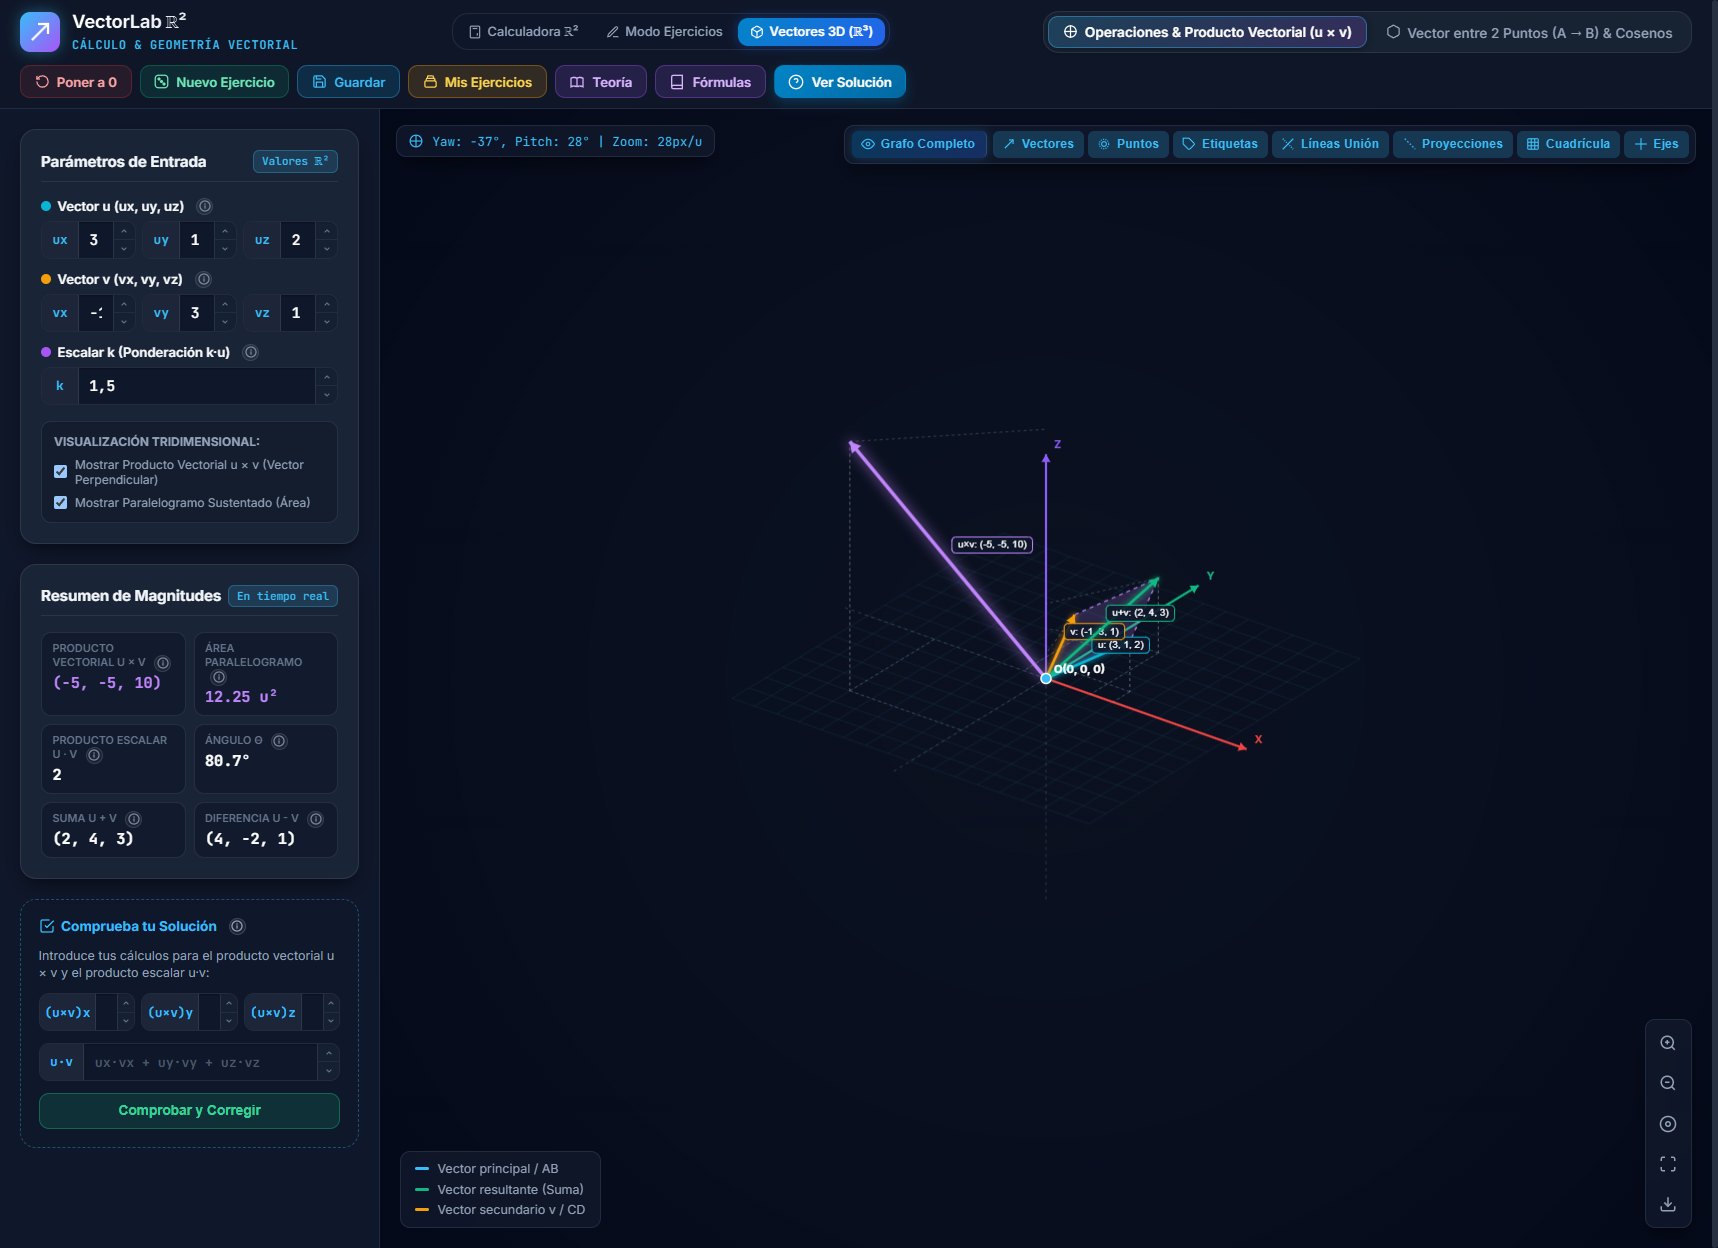
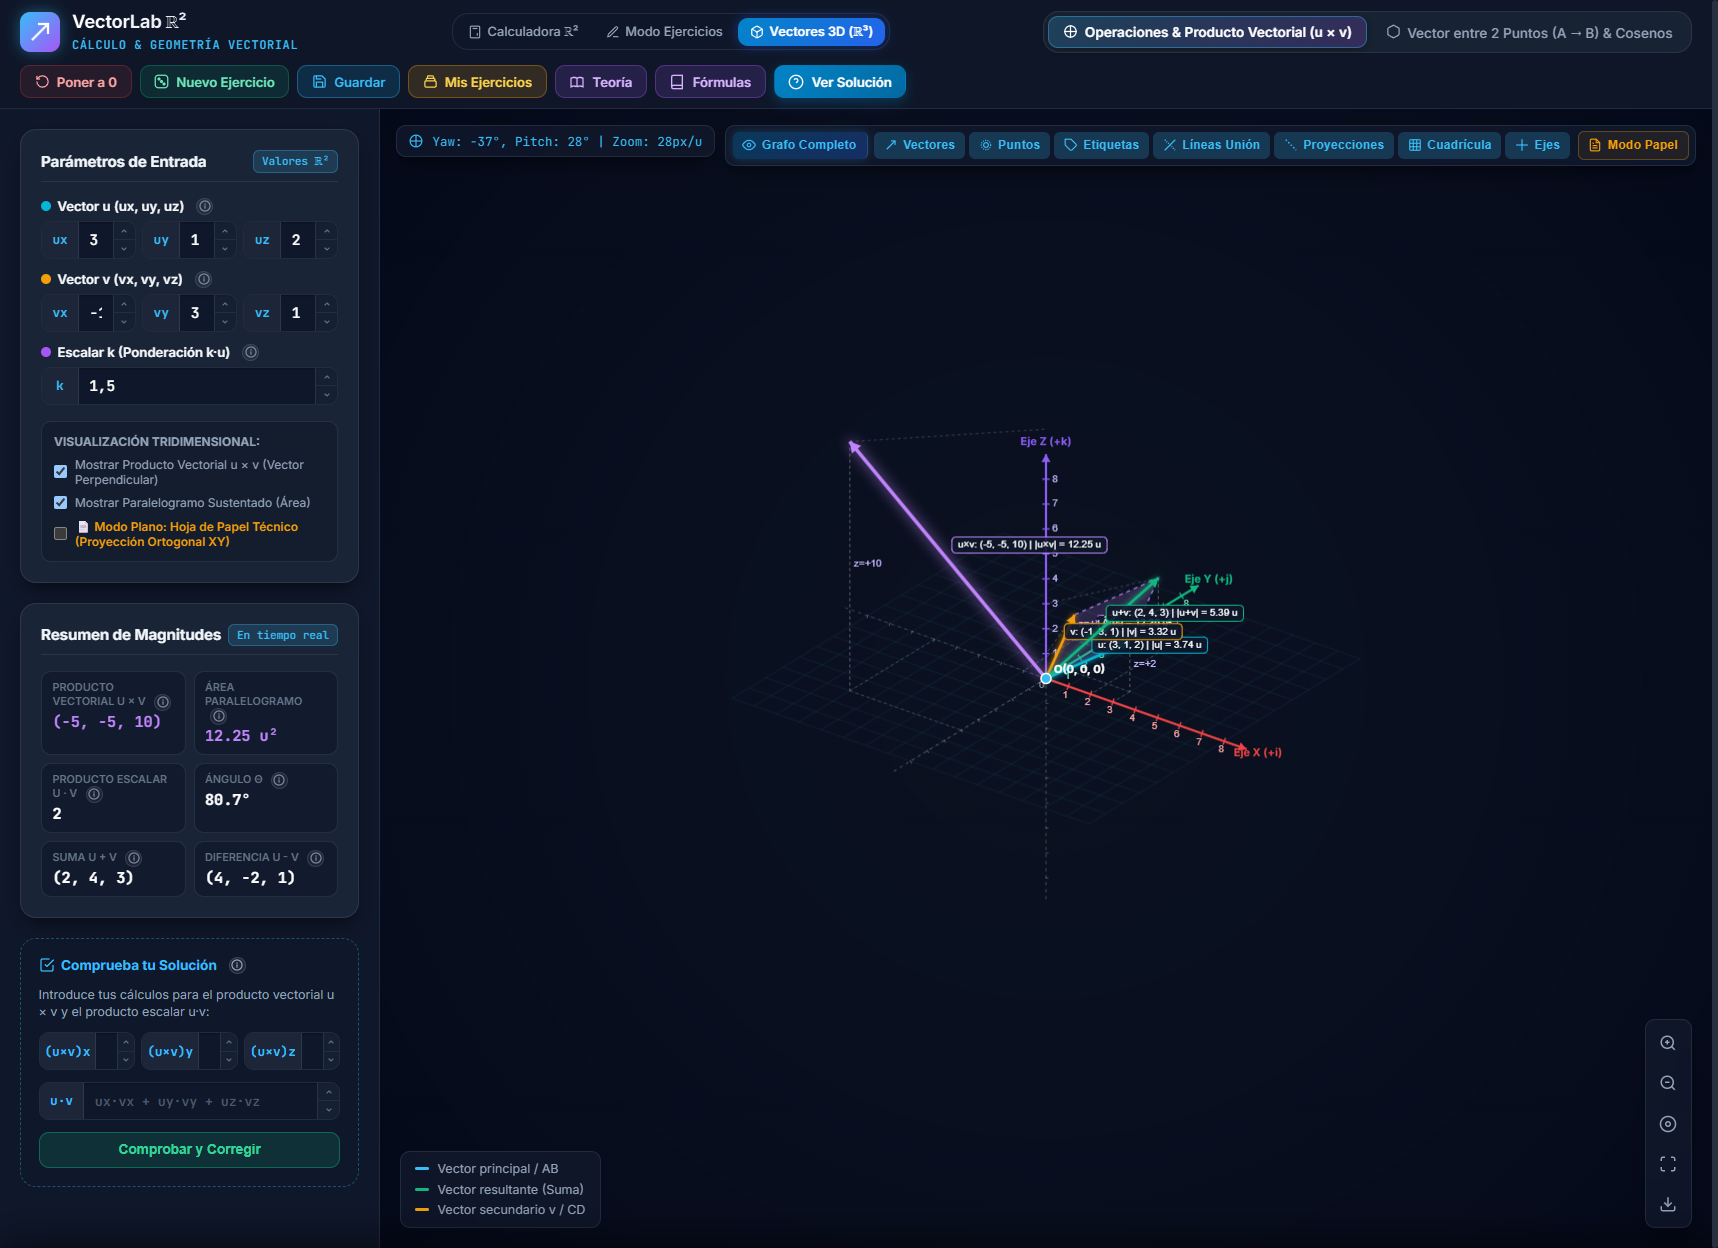
feat(canvas-3d): incorporar graduacion metrica en ejes X Y Z, cotas de altura y calculo de modulos

diff --git a/js/shared/canvas/MotorGrafico3D.js b/js/shared/canvas/MotorGrafico3D.js
@@ -496,6 +496,55 @@ export class MotorGrafico3D {
     ctx.stroke();
     ctx.setLineDash([]);
 
+    // Graduación métrica y marcas numéricas de escala
+    const pasoPapel = this._escala >= 26 ? 1 : (this._escala >= 14 ? 2 : 5);
+    ctx.font = '9px var(--fuente-mono, monospace)';
+
+    // Marcas numéricas en Eje X
+    const limIzqX = Math.floor((x0 - cx) / this._escala);
+    const limDerX = Math.ceil((x0 + anchoFolio - cx) / this._escala);
+    for (let k = limIzqX; k <= limDerX; k++) {
+      if (k === 0 || k % pasoPapel !== 0) continue;
+      const px = cx + k * this._escala;
+      if (px < x0 + 18 || px > x0 + anchoFolio - 35) continue;
+
+      ctx.lineWidth = 1;
+      ctx.strokeStyle = k > 0 ? '#ef4444' : 'rgba(239, 68, 68, 0.45)';
+      ctx.beginPath();
+      ctx.moveTo(px, cy - 3.5);
+      ctx.lineTo(px, cy + 3.5);
+      ctx.stroke();
+
+      ctx.textAlign = 'center';
+      ctx.fillStyle = k > 0 ? '#fca5a5' : 'rgba(248, 113, 113, 0.6)';
+      ctx.fillText(k.toString(), px, cy + 12);
+    }
+
+    // Marcas numéricas en Eje Y
+    const limInfY = Math.floor((cy - (y0 + altoFolio)) / this._escala);
+    const limSupY = Math.ceil((cy - y0) / this._escala);
+    for (let k = limInfY; k <= limSupY; k++) {
+      if (k === 0 || k % pasoPapel !== 0) continue;
+      const py = cy - k * this._escala;
+      if (py < y0 + 35 || py > y0 + altoFolio - 18) continue;
+
+      ctx.lineWidth = 1;
+      ctx.strokeStyle = k > 0 ? '#10b981' : 'rgba(16, 185, 129, 0.45)';
+      ctx.beginPath();
+      ctx.moveTo(cx - 3.5, py);
+      ctx.lineTo(cx + 3.5, py);
+      ctx.stroke();
+
+      ctx.textAlign = 'right';
+      ctx.fillStyle = k > 0 ? '#6ee7b7' : 'rgba(52, 211, 153, 0.6)';
+      ctx.fillText(k.toString(), cx - 6, py + 3);
+    }
+
+    // Origen 0
+    ctx.textAlign = 'right';
+    ctx.fillStyle = 'rgba(148, 163, 184, 0.7)';
+    ctx.fillText('0', cx - 6, cy + 12);
+
     // Etiquetas de los ejes
     if (this._capas.etiquetas) {
       ctx.font = 'bold 11px Inter, sans-serif';
@@ -570,9 +619,11 @@ export class MotorGrafico3D {
         }
 
         if (this._capas.etiquetas) {
+          const mod = Math.hypot(v.x, v.y, v.z);
+          const modStr = Number.isInteger(mod) ? mod.toString() : mod.toFixed(2);
           const sentido = v.z >= 0 ? '⊙ Hacia afuera' : '⊗ Hacia adentro';
           this._dibujarInsigniaEtiqueta(
-            `${v.etiqueta}: z=${v.z} (${sentido})`,
+            `${v.etiqueta}: z=${v.z} (${sentido}) | |${v.etiqueta}| = ${modStr} u`,
             orig.px + 18, orig.py - 14, v.color
           );
         }
@@ -589,9 +640,11 @@ export class MotorGrafico3D {
         if (this._capas.etiquetas) {
           const midX = (orig.px + ext.px) / 2;
           const midY = (orig.py + ext.py) / 2;
+          const mod = Math.hypot(v.x, v.y, v.z);
+          const modStr = Number.isInteger(mod) ? mod.toString() : mod.toFixed(2);
           const infoCota = v.z !== 0 ? ` (z=${v.z > 0 ? '+' : ''}${v.z})` : '';
           this._dibujarInsigniaEtiqueta(
-            `${v.etiqueta}: (${v.x}, ${v.y})${infoCota}`,
+            `${v.etiqueta}: (${v.x}, ${v.y})${infoCota} | |${v.etiqueta}| = ${modStr} u`,
             midX + 10, midY - 10, v.color
           );
         }
@@ -645,29 +698,48 @@ export class MotorGrafico3D {
     const o = this.proyectar(0, 0, 0);
 
     const ejes = [
-      { id: 'X', fin: this.proyectar(lEje, 0, 0), color: '#ef4444', unitario: this.proyectar(1, 0, 0), etiqueta: 'Eje X (+i)' },
-      { id: 'Y', fin: this.proyectar(0, lEje, 0), color: '#10b981', unitario: this.proyectar(0, 1, 0), etiqueta: 'Eje Y (+j)' },
-      { id: 'Z', fin: this.proyectar(0, 0, lEje), color: '#8b5cf6', unitario: this.proyectar(0, 0, 1), etiqueta: 'Eje Z (+k)' }
+      { id: 'X', fin: this.proyectar(lEje, 0, 0), color: '#ef4444', colorTexto: '#fca5a5', dir: { x: 1, y: 0, z: 0 }, etiqueta: 'Eje X (+i)' },
+      { id: 'Y', fin: this.proyectar(0, lEje, 0), color: '#10b981', colorTexto: '#6ee7b7', dir: { x: 0, y: 1, z: 0 }, etiqueta: 'Eje Y (+j)' },
+      { id: 'Z', fin: this.proyectar(0, 0, lEje), color: '#8b5cf6', colorTexto: '#c4b5fd', dir: { x: 0, y: 0, z: 1 }, etiqueta: 'Eje Z (+k)' }
     ];
 
-    // Ejes negativos discontinuos
+    const paso = this._escala >= 26 ? 1 : (this._escala >= 14 ? 2 : 5);
+
+    // Ejes negativos discontinuos con marcas métricas sutiles
     ctx.save();
     ctx.lineWidth = 1;
     ctx.setLineDash([3, 4]);
-    ctx.strokeStyle = 'rgba(255, 255, 255, 0.15)';
+    ctx.strokeStyle = 'rgba(255, 255, 255, 0.18)';
     [
-      this.proyectar(-lEje, 0, 0),
-      this.proyectar(0, -lEje, 0),
-      this.proyectar(0, 0, -lEje)
-    ].forEach(pNeg => {
+      { id: '-X', dir: { x: -1, y: 0, z: 0 } },
+      { id: '-Y', dir: { x: 0, y: -1, z: 0 } },
+      { id: '-Z', dir: { x: 0, y: 0, z: -1 } }
+    ].forEach(ejeNeg => {
+      const pNeg = this.proyectar(ejeNeg.dir.x * lEje, ejeNeg.dir.y * lEje, ejeNeg.dir.z * lEje);
       ctx.beginPath();
       ctx.moveTo(o.px, o.py);
       ctx.lineTo(pNeg.px, pNeg.py);
       ctx.stroke();
+
+      const dx = pNeg.px - o.px;
+      const dy = pNeg.py - o.py;
+      const len = Math.hypot(dx, dy);
+      if (len > 0.001) {
+        const nx = -dy / len;
+        const ny = dx / len;
+        ctx.strokeStyle = 'rgba(255, 255, 255, 0.25)';
+        for (let k = paso; k <= lEje - 1; k += paso) {
+          const pk = this.proyectar(ejeNeg.dir.x * k, ejeNeg.dir.y * k, ejeNeg.dir.z * k);
+          ctx.beginPath();
+          ctx.moveTo(pk.px - 2.5 * nx, pk.py - 2.5 * ny);
+          ctx.lineTo(pk.px + 2.5 * nx, pk.py + 2.5 * ny);
+          ctx.stroke();
+        }
+      }
     });
     ctx.restore();
 
-    // Ejes positivos sólidos
+    // Ejes positivos sólidos con graduación métrica y etiquetas numéricas
     ejes.forEach(eje => {
       ctx.save();
       ctx.lineWidth = 2.2;
@@ -683,13 +755,57 @@ export class MotorGrafico3D {
       // Flecha terminal del eje
       this._dibujarPuntaFlecha2D(o.px, o.py, eje.fin.px, eje.fin.py, eje.color, 9);
 
-      // Etiqueta del eje
+      // Vector normal unitario en pantalla para trazar ticks ortogonales
+      const dx = eje.fin.px - o.px;
+      const dy = eje.fin.py - o.py;
+      const len = Math.hypot(dx, dy);
+      const nx = len > 0.001 ? -dy / len : 0;
+      const ny = len > 0.001 ? dx / len : 0;
+
+      // Graduación métrica (Ticks numéricos de unidad)
+      ctx.font = '9px var(--fuente-mono, monospace)';
+      ctx.textAlign = 'center';
+      ctx.textBaseline = 'middle';
+
+      for (let k = paso; k <= lEje - 1; k += paso) {
+        const pk = this.proyectar(eje.dir.x * k, eje.dir.y * k, eje.dir.z * k);
+
+        // Tick perpendicular a la proyección del eje
+        ctx.lineWidth = 1.3;
+        ctx.strokeStyle = eje.color;
+        ctx.beginPath();
+        ctx.moveTo(pk.px - 3.5 * nx, pk.py - 3.5 * ny);
+        ctx.lineTo(pk.px + 3.5 * nx, pk.py + 3.5 * ny);
+        ctx.stroke();
+
+        // Número de la medida
+        if (this._capas.etiquetas) {
+          ctx.fillStyle = eje.colorTexto;
+          const posTextoX = pk.px + 9 * nx;
+          const posTextoY = pk.py + 9 * ny;
+          ctx.fillText(k.toString(), posTextoX, posTextoY);
+        }
+      }
+
+      // Etiqueta formal del eje (+X, +Y, +Z)
       if (this._capas.etiquetas) {
         ctx.font = 'bold 11px Inter, sans-serif';
-        ctx.fillText(eje.id, eje.fin.px + 8, eje.fin.py - 6);
+        ctx.fillStyle = eje.color;
+        const normDx = len > 0.001 ? dx / len : 1;
+        const normDy = len > 0.001 ? dy / len : 0;
+        ctx.fillText(eje.etiqueta, eje.fin.px + 12 * normDx, eje.fin.py + 12 * normDy);
       }
       ctx.restore();
     });
+
+    // Origen 0 en pantalla
+    if (this._capas.etiquetas) {
+      ctx.save();
+      ctx.font = '9px var(--fuente-mono, monospace)';
+      ctx.fillStyle = 'rgba(255, 255, 255, 0.45)';
+      ctx.fillText('0', o.px - 7, o.py + 9);
+      ctx.restore();
+    }
   }
 
   _dibujarParalelogramo3D(pts) {
@@ -711,6 +827,29 @@ export class MotorGrafico3D {
     ctx.lineWidth = 1.5;
     ctx.strokeStyle = 'rgba(192, 132, 252, 0.75)';
     ctx.stroke();
+
+    // Medida del área superficial en el centroide del paralelogramo
+    if (this._capas.etiquetas && pts.length >= 4) {
+      const p0 = pts[0];
+      const p1 = pts[1];
+      const p3 = pts[3];
+      const v1 = { x: p1.x - p0.x, y: p1.y - p0.y, z: p1.z - p0.z };
+      const v2 = { x: p3.x - p0.x, y: p3.y - p0.y, z: p3.z - p0.z };
+      const cruzX = v1.y * v2.z - v1.z * v2.y;
+      const cruzY = v1.z * v2.x - v1.x * v2.z;
+      const cruzZ = v1.x * v2.y - v1.y * v2.x;
+      const area = Math.hypot(cruzX, cruzY, cruzZ);
+
+      if (area > 0.05) {
+        const centroide = this.proyectar(
+          (pts[0].x + pts[1].x + pts[2].x + pts[3].x) / 4,
+          (pts[0].y + pts[1].y + pts[2].y + pts[3].y) / 4,
+          (pts[0].z + pts[1].z + pts[2].z + pts[3].z) / 4
+        );
+        const areaStr = Number.isInteger(area) ? area.toString() : area.toFixed(2);
+        this._dibujarInsigniaEtiqueta(`Área = ${areaStr} u²`, centroide.px, centroide.py, '#c084fc');
+      }
+    }
     ctx.restore();
   }
 
@@ -749,6 +888,17 @@ export class MotorGrafico3D {
       ctx.moveTo(pExt.px, pExt.py);
       ctx.lineTo(pZ.px, pZ.py);
       ctx.stroke();
+
+      // Cotas de medida espacial
+      if (this._capas.etiquetas && Math.abs(ext.z) >= 0.5) {
+        ctx.save();
+        ctx.font = '8px var(--fuente-mono, monospace)';
+        ctx.fillStyle = '#c4b5fd';
+        const midVertX = (pExt.px + pSuelo.px) / 2;
+        const midVertY = (pExt.py + pSuelo.py) / 2;
+        ctx.fillText(`z=${ext.z > 0 ? '+' : ''}${ext.z}`, midVertX + 4, midVertY);
+        ctx.restore();
+      }
     });
 
     ctx.restore();
@@ -781,12 +931,14 @@ export class MotorGrafico3D {
       ctx.shadowBlur = 0;
       this._dibujarPuntaFlecha2D(orig.px, orig.py, ext.px, ext.py, v.color, esProductoCruz ? 12 : 10);
 
-      // Etiqueta del vector
+      // Etiqueta del vector con coordenadas y medida de la norma euclídea
       if (this._capas.etiquetas) {
         const midX = (orig.px + ext.px) / 2;
         const midY = (orig.py + ext.py) / 2;
+        const mod = Math.hypot(v.x, v.y, v.z);
+        const modStr = Number.isInteger(mod) ? mod.toString() : mod.toFixed(2);
         this._dibujarInsigniaEtiqueta(
-          `${v.etiqueta}: (${v.x}, ${v.y}, ${v.z})`,
+          `${v.etiqueta}: (${v.x}, ${v.y}, ${v.z}) | |${v.etiqueta}| = ${modStr} u`,
           midX + 10, midY - 10, v.color
         );
       }

diff --git a/README.md b/README.md
@@ -130,14 +130,18 @@ Diseñada con un enfoque de **cero dependencias externas**, explota las capacida
   - Control orbital continuo con ratón: **Yaw** (rotación horizontal) y **Pitch** (elevación vertical con bloqueo de cardán a $\pm 87^\circ$).
   - Zoom focal interactivo con rueda de ratón o botones del HUD.
   - Sistema de referencia dextrógiro: Eje $X$ (rojo), Eje $Y$ (verde) y Eje vertical $Z$ (violeta, apuntando hacia arriba según la convención física).
-  - Malla base horizontal en plano $XY$ ($z=0$) y líneas discontinuas de proyección ortogonal al suelo.
+  - **Graduación Métrica Completa en Ejes:** Marcas numéricas de unidad (ticks ortogonales y valores $1, 2, 3, 4, 5...$) en los semiejes positivos y marcas sutiles en los negativos.
+  - **Medida Directa de Módulos (Norma Euclídea):** Las insignias flotantes de cada vector incluyen automáticamente su módulo calculado: `u: (ux, uy, uz) | |u| = X.XX u`.
+  - Malla base horizontal en plano $XY$ ($z=0$), cotas de elevación vertical $z$ en las trazas y líneas discontinuas de proyección ortogonal al suelo.
 - **Modos Tridimensionales Especializados:**
-  1. **Operaciones & Producto Vectorial ($\vec{u} \times \vec{v}$):** Cálculo del determinante $3 \times 3$, vector perpendicular resultante, suma tridimensional, producto escalar, ángulo espacial y superficie del paralelogramo sustentado con sombreado volumétrico.
+  1. **Operaciones & Producto Vectorial ($\vec{u} \times \vec{v}$):** Cálculo del determinante $3 \times 3$, vector perpendicular resultante, suma tridimensional, producto escalar, ángulo espacial y superficie del paralelogramo sustentado con sombreado volumétrico y medida explícita del área `Área = X.XX u²`.
   2. **Vector entre 2 Puntos ($A \to B$) & Cosenos Directores:** Vector relativo $\vec{AB} = B - A$, norma tridimensional, cosenos directores con los tres ejes coordenados, verificación de la identidad $\sum \cos^2 = 1$ y vector unitario director $\hat{u}$.
 - **HUD Dinámico Adaptativo:** Coordenadas angulares de cámara en tiempo real (`Yaw: X°, Pitch: Y° | Zoom: Zpx/u`) y alternancia de capas 3D.
 
 ### 11. Modo Plano: Hoja de Papel Técnico (ℝ² ⊂ ℝ³)
 - **Proyección Ortogonal Plana Sin Distorsión:** Transforma el espacio tridimensional en una vista de ingeniería sobre el plano coordenado $XY$ ($z = 0$). Elimina la perspectiva cónica y proyecta directamente $px = cx + x \cdot \text{escala}$, $py = cy - y \cdot \text{escala}$, preservando exactamente ángulos y proporciones métricas.
+- **Graduación Numérica Integral:** Regla graduada continua sobre los ejes $X$ e $Y$ con ticks y valores numéricos adaptativos (... -3, -2, -1, 0, 1, 2, 3 ...) y origen etiquetado.
+- **Medidas en Etiquetas Vectoriales:** Cada vector proyectado rotula sus componentes, cota normal de cota vertical `(z = ±k)` y su medida real euclídea `|v| = X.XX u`.
 - **Estética de Folio Técnico y Plano de Ingeniería:**
   - Lienzo tipo folio técnico milimetrado (`#090d1a`) con sombra proyectada, marco perimetral y cajetín de especificación formal.
   - Cuadrícula milimetrada dual con subdivisiones mayor ($1\text{ u}$) y menor ($0.2\text{ u}$).
